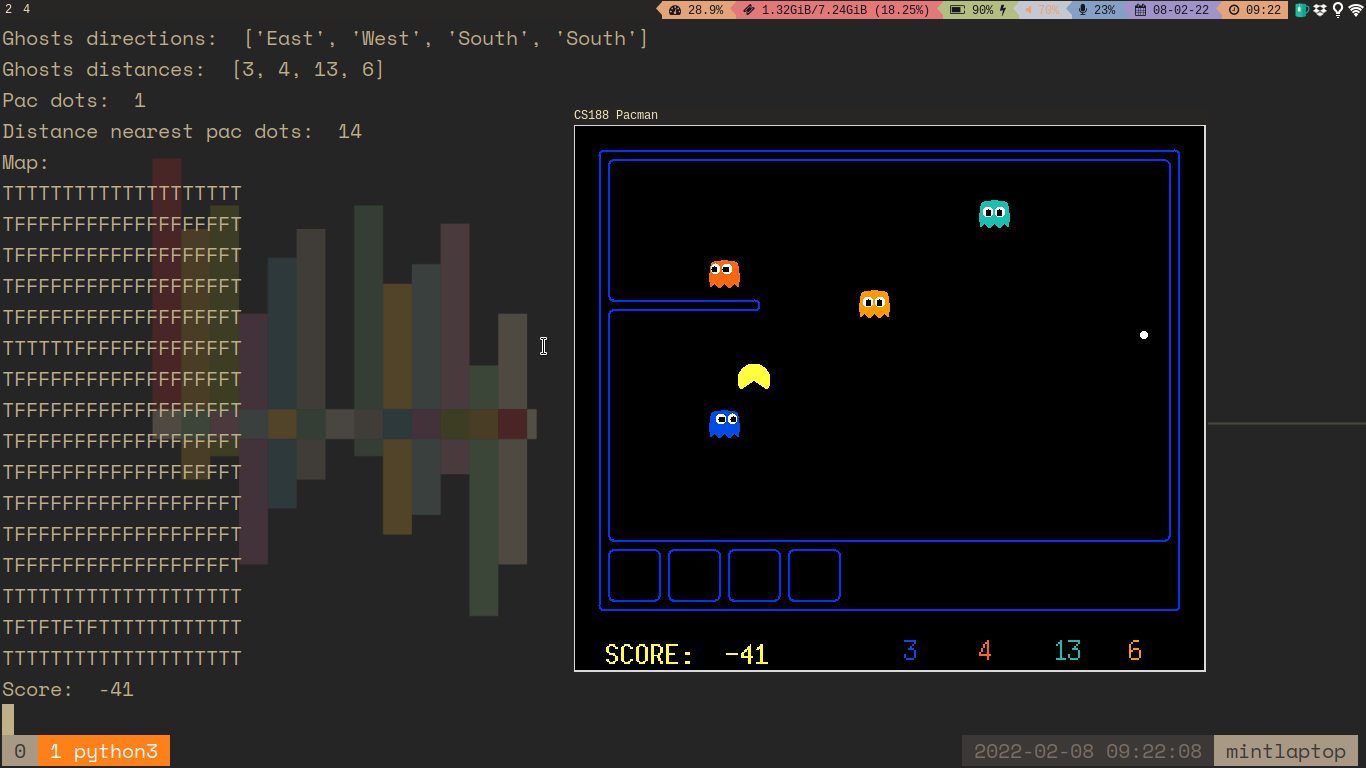
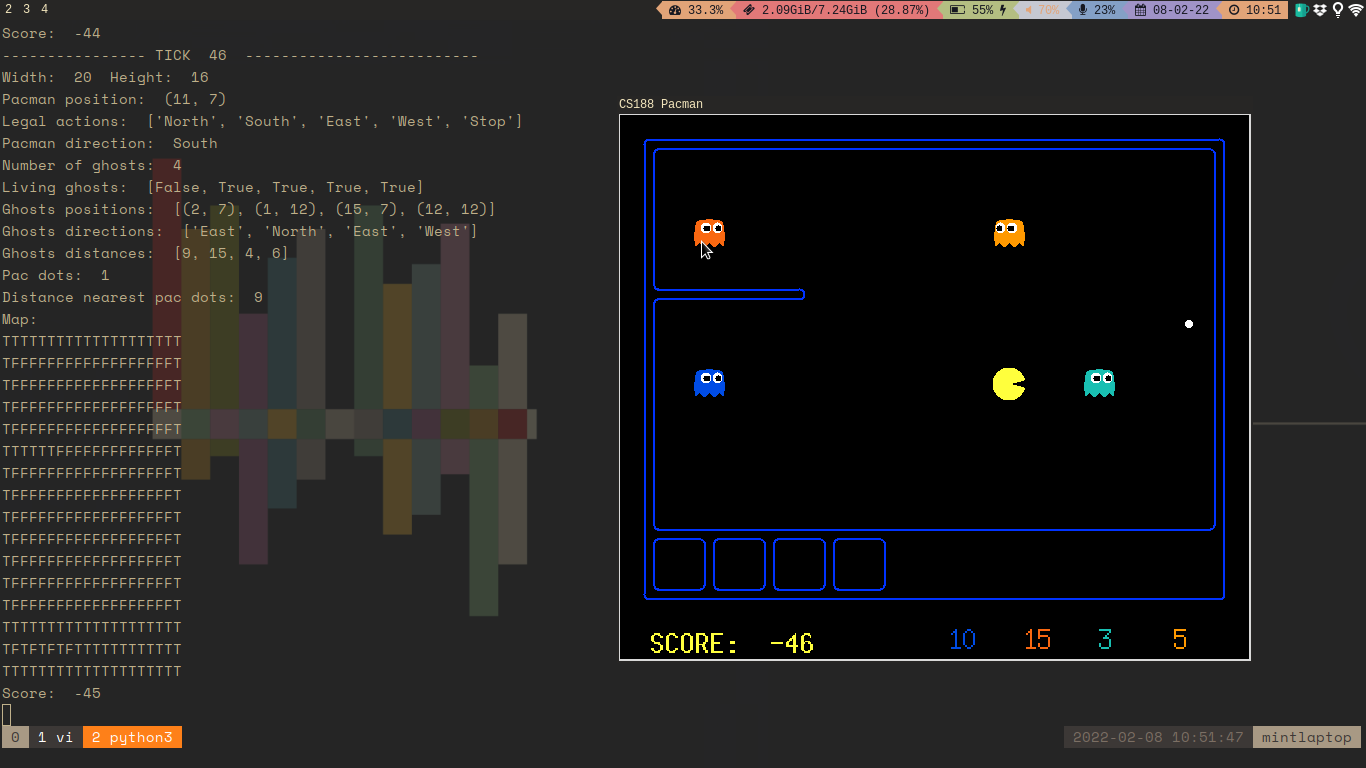
Todos los cambios de la clase del martes 8

diff --git a/bustersAgents.py b/bustersAgents.py
@@ -284,10 +284,26 @@ class BasicAgentAA(BustersAgent):
 
     
     def printLineData(self, gameState) -> str :
+        # define variable splits
+        pacman_pos = gameState.getPacmanPosition()
+        legal=[False]*5
+        if "North" in gameState.getLegalActions:
+            legal[0]=True
+        if "South" in gameState.getLegalActions:
+            legal[1]=True
+        if "East" in gameState.getLegalActions:
+            legal[2]=True
+        if "West" in gameState.getLegalActions:
+            legal[3]=True
+        if "Stop" in gameState.getLegalActions:
+            legal[4]=True
+        
         gameInfo = [
                 str(self.countActions),
-                str((gameState.data.layout.width, gameState.data.layout.height)),
-                str(gameState.getPacmanPosition()),
+                str(gameState.data.layout.width),
+                str(gameState.data.layout.height),
+                str(pacman_pos[0]),
+                str(pacman_pos[1]),
                 str(gameState.getLegalPacmanActions()),
                 str(gameState.data.agentStates[0].getDirection()),
                 str(gameState.getNumAgents() - 1),

diff --git a/game.py b/game.py
@@ -666,7 +666,7 @@ class Game(object):
             else:
                 observation = self.state.deepCopy()
 
-            #TODO: call printLineData()
+            # TODO: call printLineData()
             # FIXME: what should be the "agent" to use
             # FIXME: what is the variable for the gamestate
             if agentIndex == self.startingIndex:
@@ -752,10 +752,7 @@ class Game(object):
         ######################################################
         #                 GAME LOOP FINISHED                 #
         ######################################################
-        #TODO:call again printLineData()
-        if agentIndex == self.startingIndex:
-            to_write = agent.printLineData(observation)
-            file_hand.write(to_write)
+
         #NOTE: close the file with game state
         file_hand.close()
 

diff --git a/headers.py b/headers.py
@@ -3,9 +3,15 @@ File to get the header files
 """
 header_vals =[
         "ticks",
-        "screen_dim",
-        "pacman_pos",
-        "legal_actions",
+        "screen_dim_x",
+        "screen_dim_y",
+        "pacman_pos_x",
+        "pacman_pos_y",
+        "North",
+        "South",
+        "East",
+        "West",
+        "Stop",
         "pacman_dir",
         "ghost_num",
         "ghost_alive",

diff --git a/report.md b/report.md
@@ -2,7 +2,7 @@ Alvaro Viejo & Alejandro Mayo
 # Pacman first delivery report
 ## Exercise 1
 At the interface we can see pacman with 4 different ghost, it uses the default set and we control the movements, important to point out that the walls it will change depending on the map . 
-For the terminal we can see many characteristics like width, height the pacman position, the legal action the direction, number ghost,... We can also see a squetch of the map that is. The pacman initial position is the 12,10.
+For the terminal we can see many characteristics like width, height the pacman position, the legal action the direction, number ghost,... We can also see a quetch of the map that is. The pacman initial position is the 12,10.
 ## Exercise 2
 The most usefull information would be the pacman position, the position of the ghost and also the map to see if there would be an obstacle blocking the shortest possible path of pacman to a ghost, for this we could use the legal actions information, important also to point out the living ghost where the first object is always false as its a reference to our character, pacman.
 
